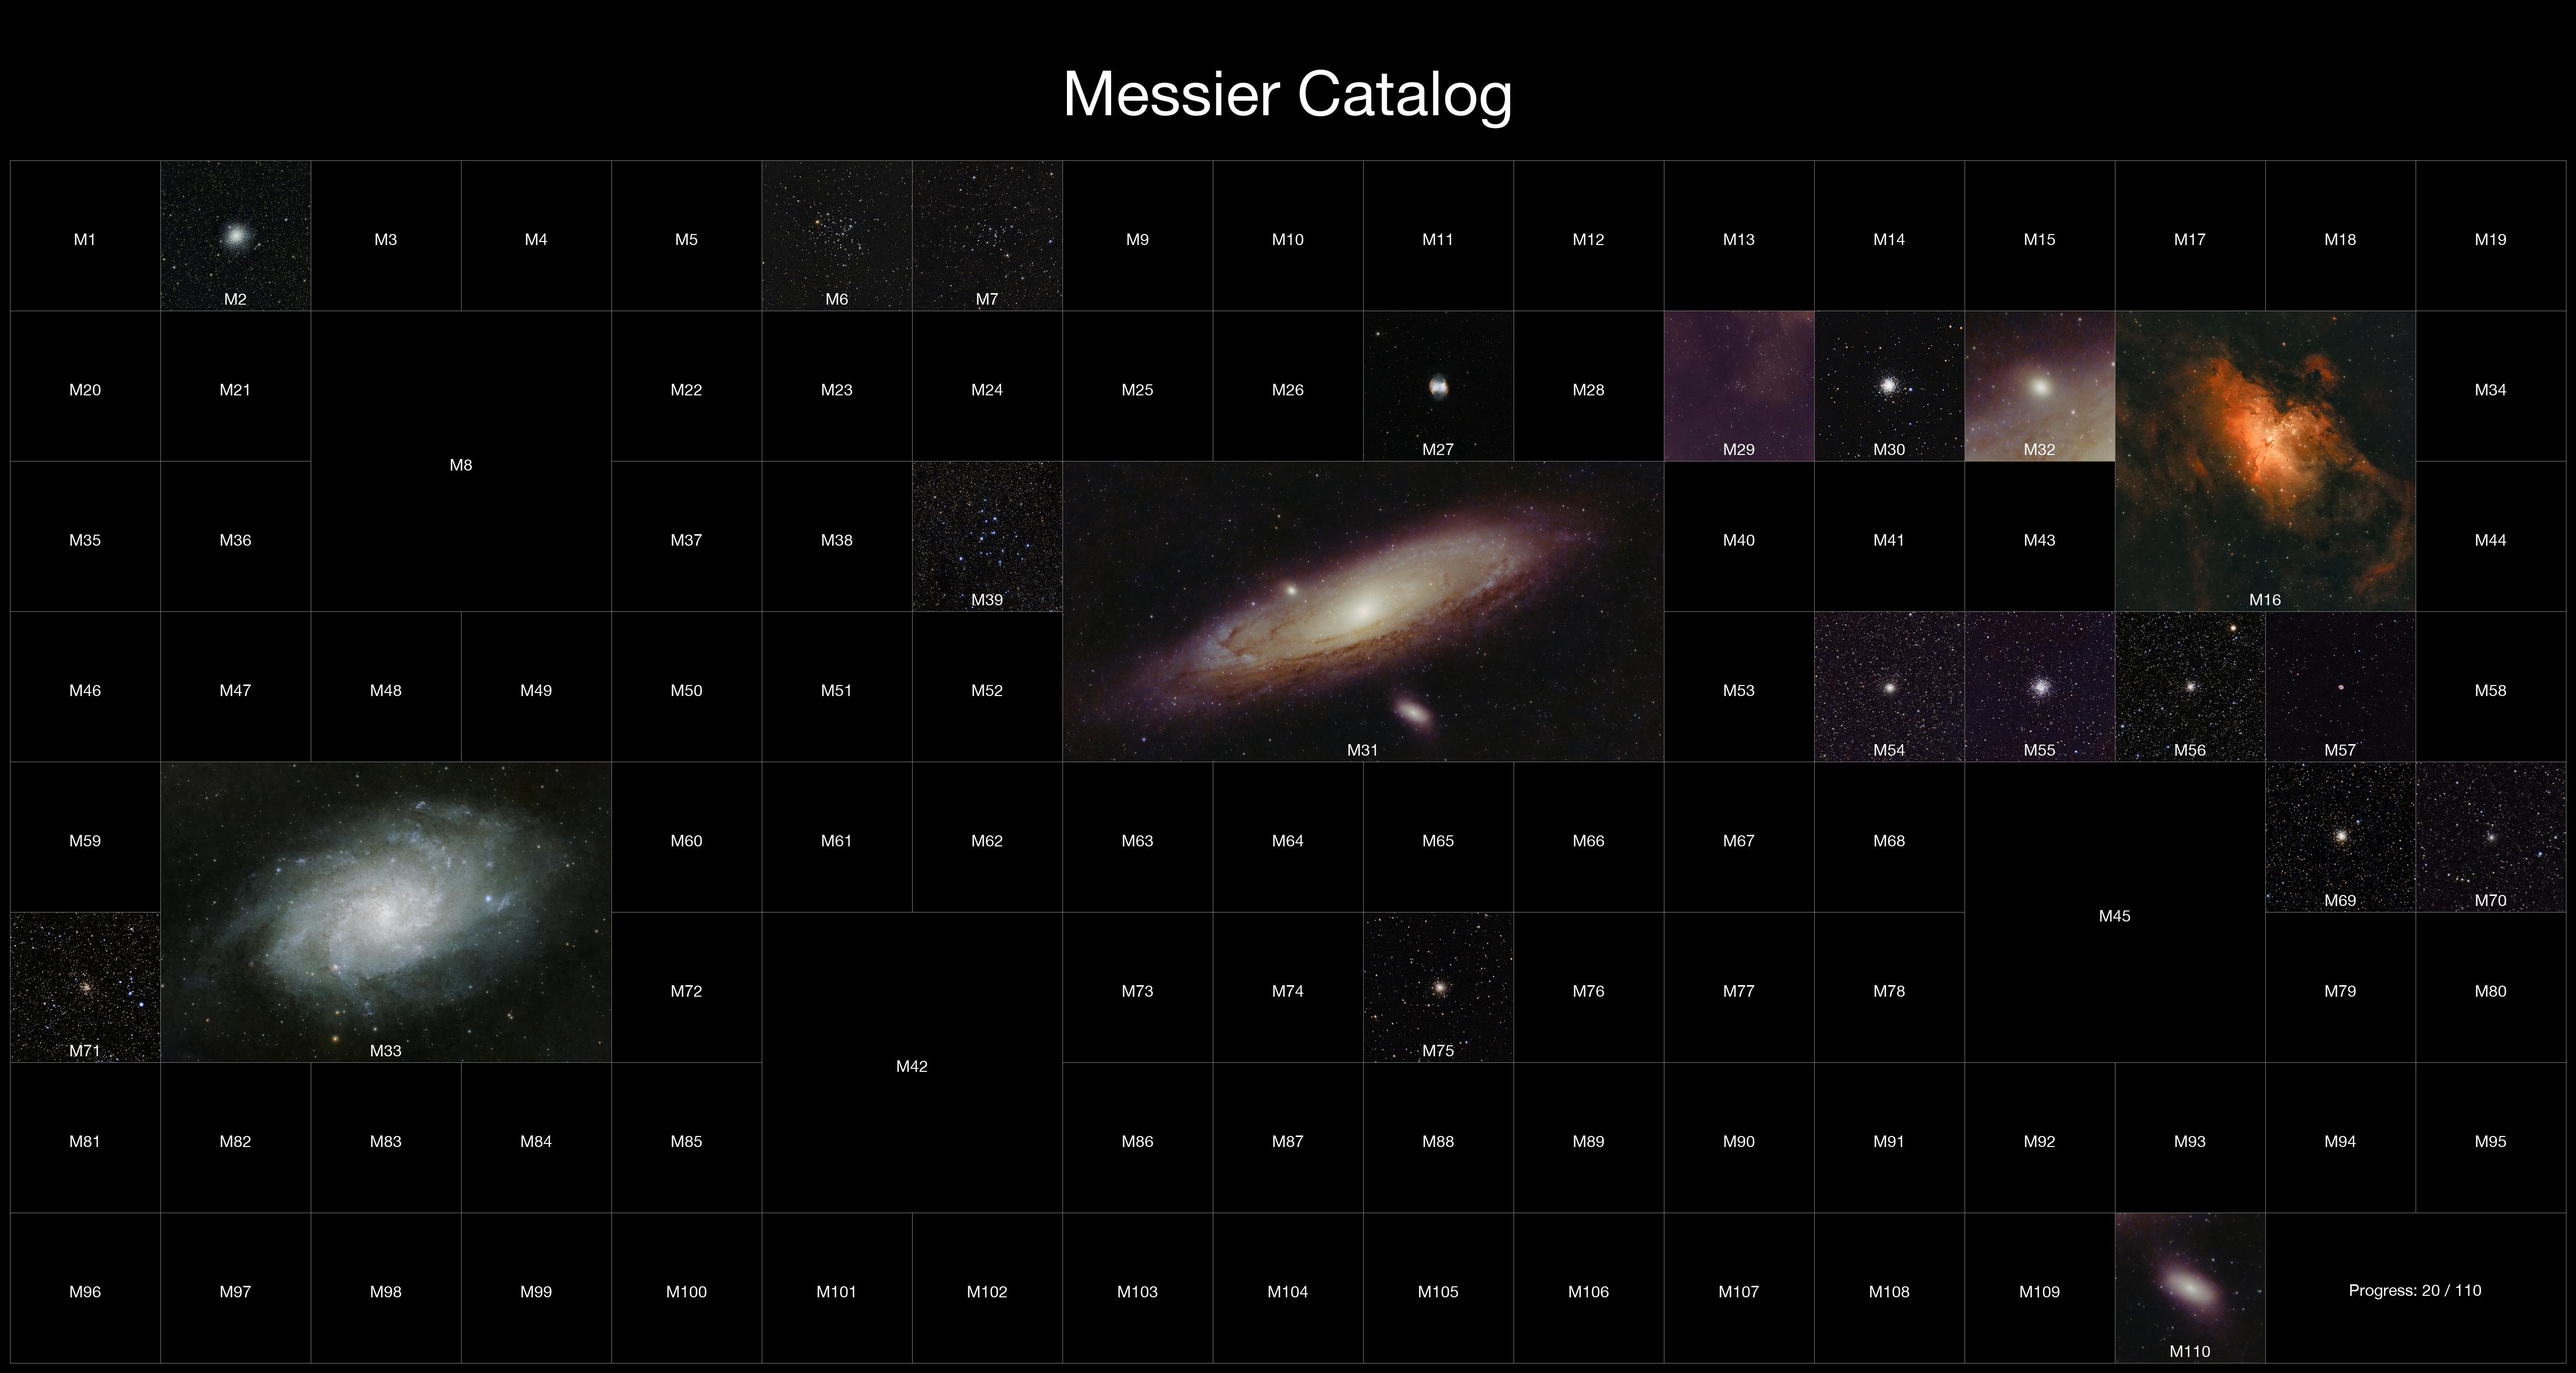
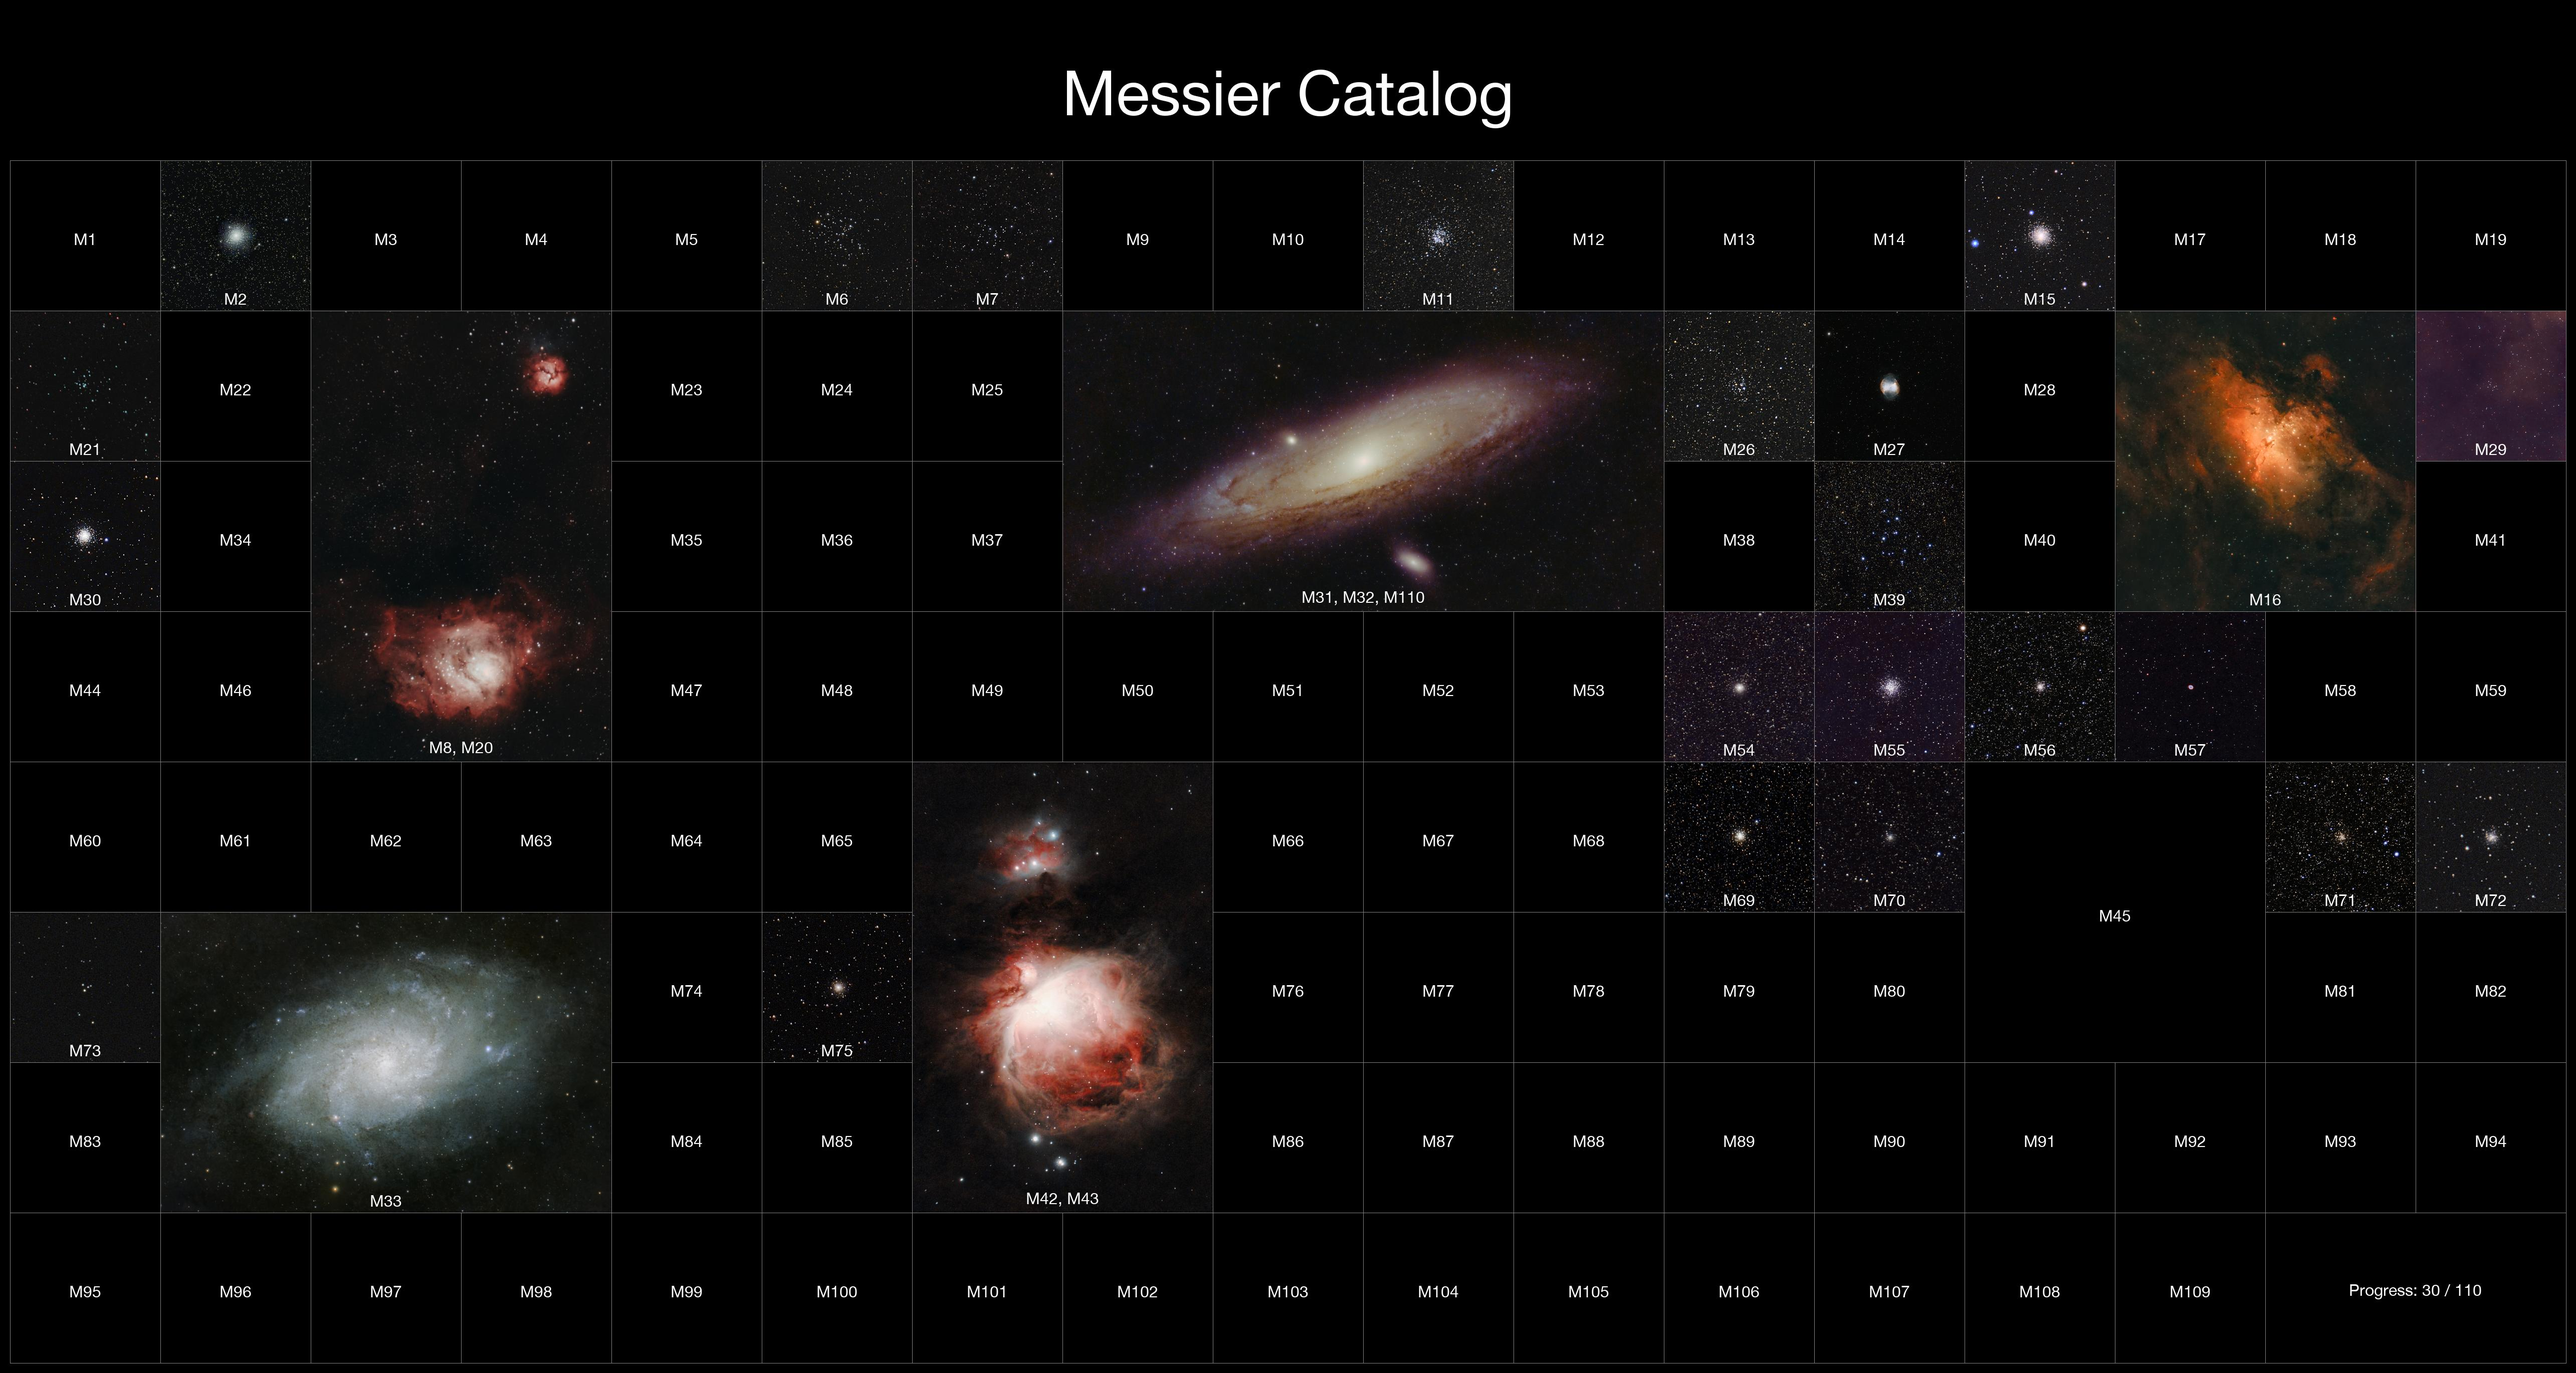
Multiple objects per slot

diff --git a/src/layout.py b/src/layout.py
@@ -1,13 +1,14 @@
 from argparse import Namespace
+from src.special_objects import SpecialObject
 from src.catalog import Catalog
 from PIL import Image, ImageDraw, ImageFont, ImageOps
 
 # Compute the number of grid rows needed based on columns, layout map, and total items
 def compute_grid_rows(grid_cols: int, 
-                      layout_map: dict[int, tuple[int, int, int, int]], 
+                      special_objects: list[SpecialObject], 
                       total: int) -> int:
-    special_cells = sum(cs * rs for (_, _, cs, rs) in layout_map.values())
-    normal_cells = total - len(layout_map)
+    special_cells = sum(obj.cells() for obj in special_objects)
+    normal_cells = total - sum(obj.objects() for obj in special_objects)
     total_cells = special_cells + normal_cells
     return -(-total_cells // grid_cols) + 1  # ceil division, +1 for title
 
@@ -17,7 +18,7 @@ def draw_grid(draw: ImageDraw.ImageDraw,
               font: ImageFont.ImageFont | ImageFont.FreeTypeFont, 
               args: Namespace, 
               grid_rows: int, 
-              layout_map: dict[int, tuple[int, int, int, int]], 
+              special_objects: list[SpecialObject], 
               images: dict[int, Image.Image], 
               catalog: Catalog):
     thumb_size = args.thumb_size
@@ -34,25 +35,26 @@ def draw_grid(draw: ImageDraw.ImageDraw,
     # Draw overall rectangle
     draw.rectangle([padding, padding + thumb_size, padding + grid_cols * thumb_size, padding + grid_rows * thumb_size], outline="gray", width=1)
 
-    def place_object(num: int, col: int, row: int, col_span: int = 1, row_span: int = 1):
+    def place_object(numbers: list[int], col: int, row: int, col_span: int = 1, row_span: int = 1):
         """Place an image or placeholder at the given slot and mark occupied cells."""
         slot_w = col_span * thumb_size
         slot_h = row_span * thumb_size
         x = col * thumb_size + padding
         y = row * thumb_size + padding
+        name_text = ", ".join(catalog.prefix() + f"{num}" for num in numbers)
 
         # Place image or placeholder
-        if num in images:
+        if any(num in images for num in numbers):
+            image = next(img for num, img in images.items() if num in numbers)
             img = ImageOps.fit(
-                images[num],
+                image,
                 (slot_w, slot_h),
                 Image.Resampling.LANCZOS,
                 centering=(0.5, 0.5)
             )
             mosaic.paste(img, (x + 1, y + 1))
 
-            # Draw the name on the image (centered at the bottom)
-            name_text = catalog.prefix() + f"{num}"
+            # Draw the name on the image (centered at the bottom), list the names if multiple
             bbox = draw.textbbox((0, 0), name_text, font=font)
             tw = bbox[2] - bbox[0]
             th = bbox[3] - bbox[1]
@@ -62,13 +64,12 @@ def draw_grid(draw: ImageDraw.ImageDraw,
             draw.text((text_x, text_y), name_text, fill="white", font=font)
 
         else:
-            text = catalog.prefix() + f"{num}"
-            bbox = draw.textbbox((0, 0), text, font=font)
+            bbox = draw.textbbox((0, 0), name_text, font=font)
             tw = bbox[2] - bbox[0]
             th = bbox[3] - bbox[1]
             draw.text(
                 (x + (slot_w - tw) // 2, y + (slot_h - th) // 2),
-                text,
+                name_text,
                 fill="white",
                 font=font
             )
@@ -83,13 +84,13 @@ def draw_grid(draw: ImageDraw.ImageDraw,
                     occupied[r][c] = True
 
     # Place large objects first
-    for num, (col, row, col_span, row_span) in layout_map.items():
-        place_object(num, col, row+1, col_span, row_span) # Row +1 because title is in 1st row
+    for special in special_objects:
+        place_object(special.numbers, special.x, special.y, special.width, special.height)
 
     # Place remaining small objects
     for i in range(catalog.count()):
         num = i + 1
-        if num in layout_map:
+        if any(num in special.numbers for special in special_objects):
             continue  # already placed
 
         # Find first free 1x1 slot
@@ -97,7 +98,7 @@ def draw_grid(draw: ImageDraw.ImageDraw,
         for r in range(grid_rows):
             for c in range(grid_cols):
                 if not occupied[r][c]:
-                    place_object(num, c, r)
+                    place_object([num], c, r)
                     placed = True
                     break
             if placed:

diff --git a/src/mosaic.py b/src/mosaic.py
@@ -9,23 +9,24 @@ except ImportError:
     from PIL import Image, ImageDraw, ImageFont
 
 from argparse import Namespace
+from src.special_objects import SpecialObject
 from src.layout import compute_grid_rows, draw_grid
 from src.drawing import draw_title, draw_progress
 from src.utils import load_images, open_with_default_viewer
 from src.catalog import Catalog
 
-__version__ = "1.0.2"
+__version__ = "1.1.0"
 
 # Build the mosaic image based on the provided arguments, layout map, and catalog
-def build_mosaic(args: Namespace, layout_map: dict[int, tuple[int, int, int, int]], catalog: Catalog):
+def build_mosaic(args: Namespace, special_objects: list[SpecialObject], catalog: Catalog):
     print(f"Astro Catalog v{__version__}, created by Sylvain Villet")
 
     # Load individual images
-    images = load_images(args.input_folder, catalog.prefix())
+    images: dict[int, Image.Image] = load_images(args.input_folder, catalog.prefix())
 
     # Create output image
     catalog_count = catalog.count()
-    grid_rows = compute_grid_rows(args.grid_cols, layout_map, catalog_count)
+    grid_rows = compute_grid_rows(args.grid_cols, special_objects, catalog_count)
     mosaic_w = args.grid_cols * args.thumb_size + 2 * args.padding
     mosaic_h = grid_rows * args.thumb_size + 2 * args.padding
     mosaic = Image.new("RGB", (mosaic_w, mosaic_h), "black")
@@ -39,10 +40,20 @@ def build_mosaic(args: Namespace, layout_map: dict[int, tuple[int, int, int, int
         title_font = ImageFont.load_default(args.title_font_size)
 
     draw_title(draw, args.title, title_font, mosaic_w, args.thumb_size, args.padding)
-    draw_grid(draw, mosaic, font, args, grid_rows, layout_map, images, catalog)
+    draw_grid(draw, mosaic, font, args, grid_rows, special_objects, images, catalog)
 
     # Show progress if not completed
-    images_count = len(images)
+    images_count = 0
+    for num in images:
+        found = False
+        for obj in special_objects:
+            if num in obj.numbers:
+                images_count += obj.objects()
+                found = True
+                break
+        if not found:
+            images_count += 1
+
     if images_count < catalog_count:
         progress_text = f"Progress: {images_count} / {catalog_count}"
         draw_progress(draw, progress_text, font, args.grid_cols - 2, grid_rows - 1, args.padding, args.thumb_size)

diff --git a/user_settings.py b/user_settings.py
@@ -1,20 +1,20 @@
-# Messier layout: MessierNumber : (col, row, col_span, row_span)
-messier_layout = {
-    8:  ( 2, 1, 2, 2),   # M8  Lagoon Nebula
-    16: (14, 1, 2, 2),   # M16 Eagle Nebula
-    31: ( 7, 2, 4, 2),   # M31 Andromeda
-    33: ( 1, 4, 3, 2),   # M33 Triangulum Galaxy
-    42: ( 5, 5, 2, 2),   # M42 Orion Nebula
-    45: (13, 4, 2, 2),   # M45 Pleiades
-}
+from src.special_objects import SpecialObject
 
-# Caldwell layout: CaldwellNumber : (col, row, col_span, row_span)
-caldwell_layout = {
-    20: ( 1, 1, 3, 2),    # C20 North America Nebula
-    33: (14, 1, 2, 3),    # C33 Veil Nebula 
-    68: ( 7, 2, 2, 2),    # C68 Helix Nebula 
-    70: ( 2, 4, 3, 2),    # C70 NGC 300
-    71: ( 9, 5, 4, 2),    # C71 Large Magellanic Cloud
-    72: ( 0, 7, 3, 2),    # C72 Small Magellanic Cloud
-    99: (14, 6, 3, 2),    # C99 Coalsack Nebula
-}
+messier_layout: list[SpecialObject] = [
+    SpecialObject(numbers=[8, 20],       x=2, y=2, width=2, height=3),   # Lagoon Nebula
+    SpecialObject(numbers=[16],          x=14, y=2, width=2, height=2),  # Eagle Nebula
+    SpecialObject(numbers=[31, 32, 110], x=7, y=2, width=4, height=2),   # Andromeda
+    SpecialObject(numbers=[33],          x=1, y=6, width=3, height=2),   # Triangulum Galaxy
+    SpecialObject(numbers=[42, 43],      x=6, y=5, width=2, height=3),   # Orion Nebula
+    SpecialObject(numbers=[45],          x=13, y=5, width=2, height=2),  # Pleiades
+]
+
+caldwell_layout: list[SpecialObject] = [
+    SpecialObject(numbers=[20], x=1, y=1, width=3, height=2),   # North America Nebula
+    SpecialObject(numbers=[33], x=14, y=1, width=2, height=3),  # Veil Nebula
+    SpecialObject(numbers=[68], x=7, y=2, width=2, height=2),   # Helix Nebula
+    SpecialObject(numbers=[70], x=2, y=4, width=3, height=2),   # NGC 300
+    SpecialObject(numbers=[71], x=9, y=5, width=4, height=2),   # Large Magellanic Cloud
+    SpecialObject(numbers=[72], x=0, y=7, width=3, height=2),   # Small Magellanic Cloud
+    SpecialObject(numbers=[99], x=14, y=6, width=3, height=2),  # Coalsack Nebula
+]

diff --git a/src/special_objects.py b/src/special_objects.py
@@ -1,0 +1,17 @@
+class SpecialObject:
+    def __init__(self, *, numbers: list[int], x: int, y: int, width: int, height: int):
+        self.numbers = numbers
+        self.x = x
+        self.y = y
+        self.width = width
+        self.height = height
+
+    def cells(self) -> int:
+        return self.width * self.height
+    
+    def objects(self) -> int:
+        return len(self.numbers)
+
+    def __repr__(self):
+        return (f"SpecialObject(numbers={self.numbers}, x={self.x}, y={self.y}, "
+                f"width={self.width}, height={self.height})")

diff --git a/README.md b/README.md
@@ -30,7 +30,7 @@ Here’s a couple of in-progress examples:
 
 ## Installation
 
-1. Install **Python 3** from this link:
+1. Install **Python 3.10+** from this link:
 
 https://www.python.org/downloads/
 
@@ -71,14 +71,14 @@ Alternatively, you can right click on `generate_messier_catalog.py` or `generate
 
 Some objects span much larger areas in the sky, so they are given multiple grid cells in the mosaic to better reflect their size:
 
-| Messier | Object               | Grid Position (col, row)  | Span (cols × rows) |
-|---------|----------------------|---------------------------|--------------------|
-| M8      | Lagoon Nebula        | (2, 1)                    | 2 × 2              |
-| M16     | Eagle Nebula         | (14, 1)                   | 2 × 2              |
-| M31     | Andromeda Galaxy     | (7, 2)                    | 4 × 2              |
-| M33     | Triangulum Galaxy    | (1, 4)                    | 3 × 2              |
-| M42     | Orion Nebula         | (5, 5)                    | 2 × 2              |
-| M45     | Pleiades             | (13, 4)                   | 2 × 2              |
+| Messier        | Object               | Grid Position (col, row)  | Span (cols × rows) |
+|----------------|----------------------|---------------------------|--------------------|
+| M8, M20        | Lagoon/Trifid Nebula | (2, 2)                    | 2 × 3              |
+| M16            | Eagle Nebula         | (14, 2)                   | 2 × 2              |
+| M31, M32, M110 | Andromeda Galaxy     | (7, 2)                    | 4 × 2              |
+| M33            | Triangulum Galaxy    | (1, 6)                    | 3 × 2              |
+| M42, M43       | Orion Nebula         | (6, 5)                    | 2 × 3              |
+| M45            | Pleiades             | (13, 5)                   | 2 × 2              |
 
 All other objects default to **1 × 1** cells and are auto-placed.
 
